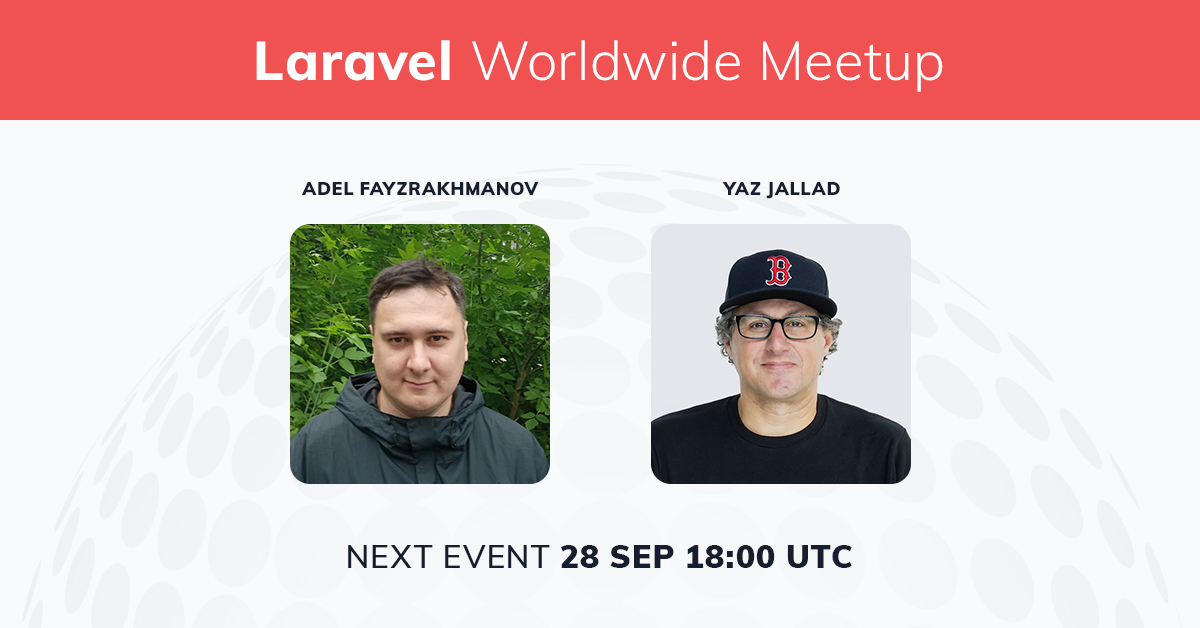
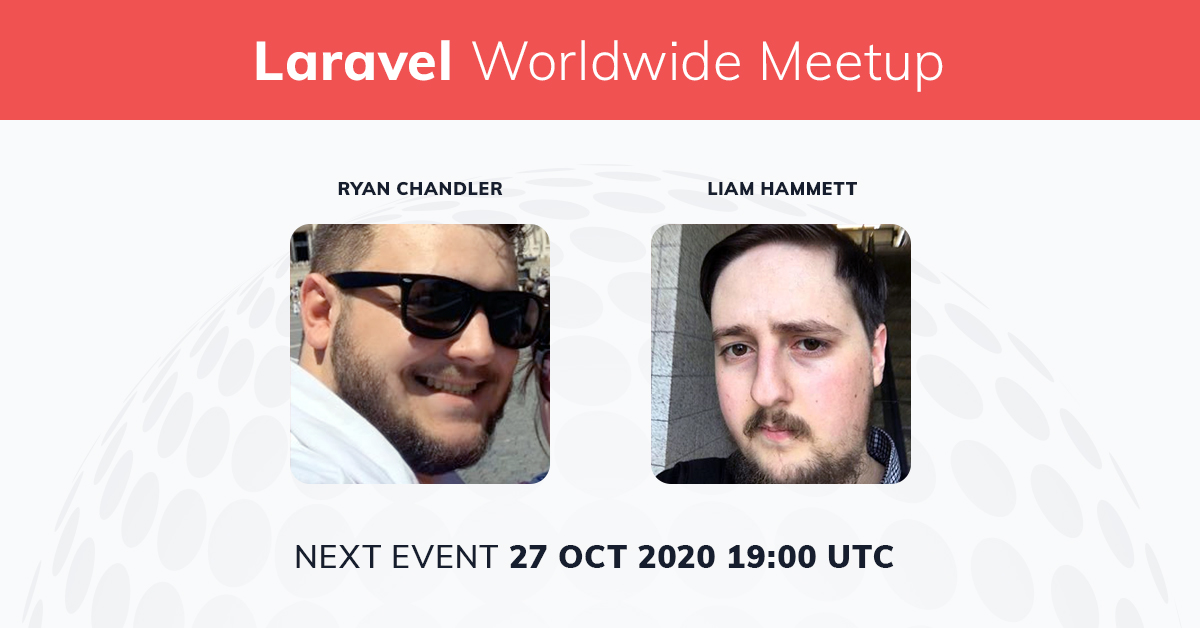
feat/update-socialcard

Changed region(s): [[0.2158, 0.2723, 0.4625, 0.7866], [0.5242, 0.2723, 0.7708, 0.7866], [0.2467, 0.8471, 0.74, 0.9076]]

diff --git a/resources/views/layouts/main.blade.php b/resources/views/layouts/main.blade.php
@@ -3,9 +3,7 @@
 <head>
     <meta charset="utf-8">
     <title>Laravel Worldwide Meetup</title>
-    {{--
-    <meta name="title" content="Next event: 28 Sep at 19:00 GMT+1, with Adel Fayzrakhmanov and Yaz Jallad">
-    --}}
+    <meta name="title" content="Next event: 27 Oct at 19:00 UTC, with Ryan Chandler && Liam Hammett | Laravel Worldwide Meetup">
     <meta name="description" content="Join the official Laravel meetup in the cloud. Learn from various familiar and new speakers. Chat with your fellow artisans.">
     <meta name="viewport" content="width=device-width, initial-scale=1">
     <link rel="apple-touch-icon" sizes="180x180" href="/img/favicon/apple-touch-icon.png">
@@ -17,19 +15,13 @@
     <meta name="msapplication-TileColor" content="#f05252">
     <meta name="theme-color" content="#f05252">
     <meta property="og:type" content="website">
-    <meta property="og:url" content="{{ url('/') }}?2009">
-    {{--
-    <meta property="og:title" content="Next event: 28 Sep at 19:00 GMT+1, with Adel Fayzrakhmanov and Yaz Jallad">
-    --}}
+    <meta property="og:url" content="{{ url('/') }}?2010">
+    <meta property="og:title" content="Next event: 27 Oct at 19:00 UTC, with Ryan Chandler && Liam Hammett | Laravel Worldwide Meetup">
     <meta property="og:description" content="Join the official Laravel meetup in the cloud. Learn from various familiar and new speakers. Chat with your fellow artisans.">
-    {{--
     <meta property="og:image" content="{{ asset('/img/socialcard.jpg') }}">
-    --}}
     <meta property="twitter:card" content="summary_large_image">
     <meta property="twitter:url" content="{{ url('/') }}?2009">
-    {{--
-    <meta property="twitter:title" content="Next event: 28 Sep at 19:00 GMT+1, with Adel Fayzrakhmanov and Yaz Jallad">
-    --}}
+    <meta property="twitter:title" content="Next event: 27 Oct at 19:00 UTC, with Ryan Chandler && Liam Hammett | Laravel Worldwide Meetup">
     <meta property="twitter:description" content="Join the official Laravel meetup in the cloud. Learn from various familiar and new speakers. Chat with your fellow artisans.">
     <meta property="twitter:image" content="{{ asset('/img/socialcard.jpg') }}">
     <script defer src="{{ mix('js/app.js') }}"></script>
